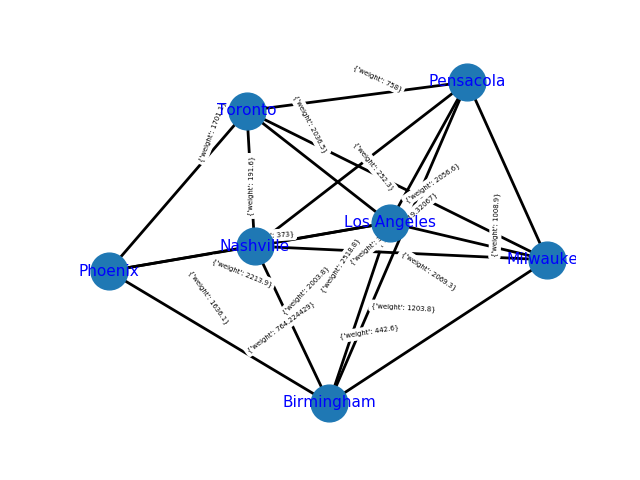
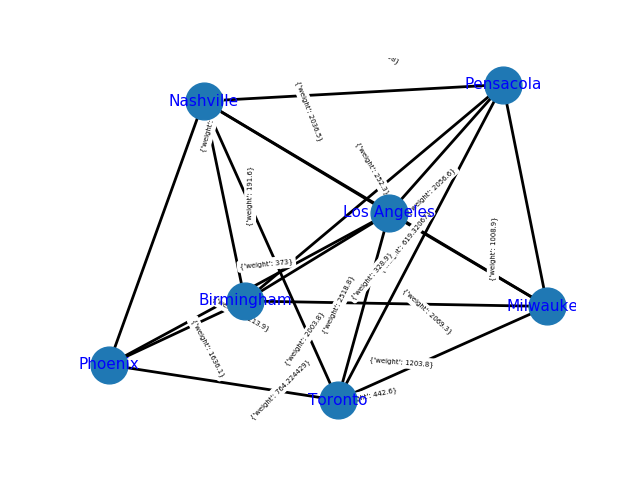
Changed BlockModel page to PathExperiments page.

diff --git a/PathExperiments.py b/PathExperiments.py
@@ -92,9 +92,14 @@ nx.draw_networkx_edge_labels(G, pos=nx.spectral_layout(G), font_size=5)
 plt.axis('off')
 plt.savefig("weighted_graph.png") # save as png
 plt.tight_layout(True)
+plt.suptitle('Original Distance Model (miles)')
 plt.show() # display
 
-# reference for a dijkstra function:
-# https://www.datacamp.com/community/tutorials/networkx-python-graph-tutorial
 
+print(startDarkCyan + '\n----------------------------------------- Path Experiments with Data' +
+      '-----------------------------------------' + endColor, '\n')
+
+print(startBlue + '\nShortest path from Pensacola to Phoenix:\n'+ endColor, nx.shortest_path(G, 'Pensacola', 'Phoenix'))
+print(startBlue + '\nDijkstra path from Pensacola to Phoenix:\n'+ endColor, nx.dijkstra_path(G, 'Pensacola', 'Phoenix'))
+print(startBlue + '\nHas Euleurian path:\n'+ endColor, nx.has_eulerian_path(G))
 
